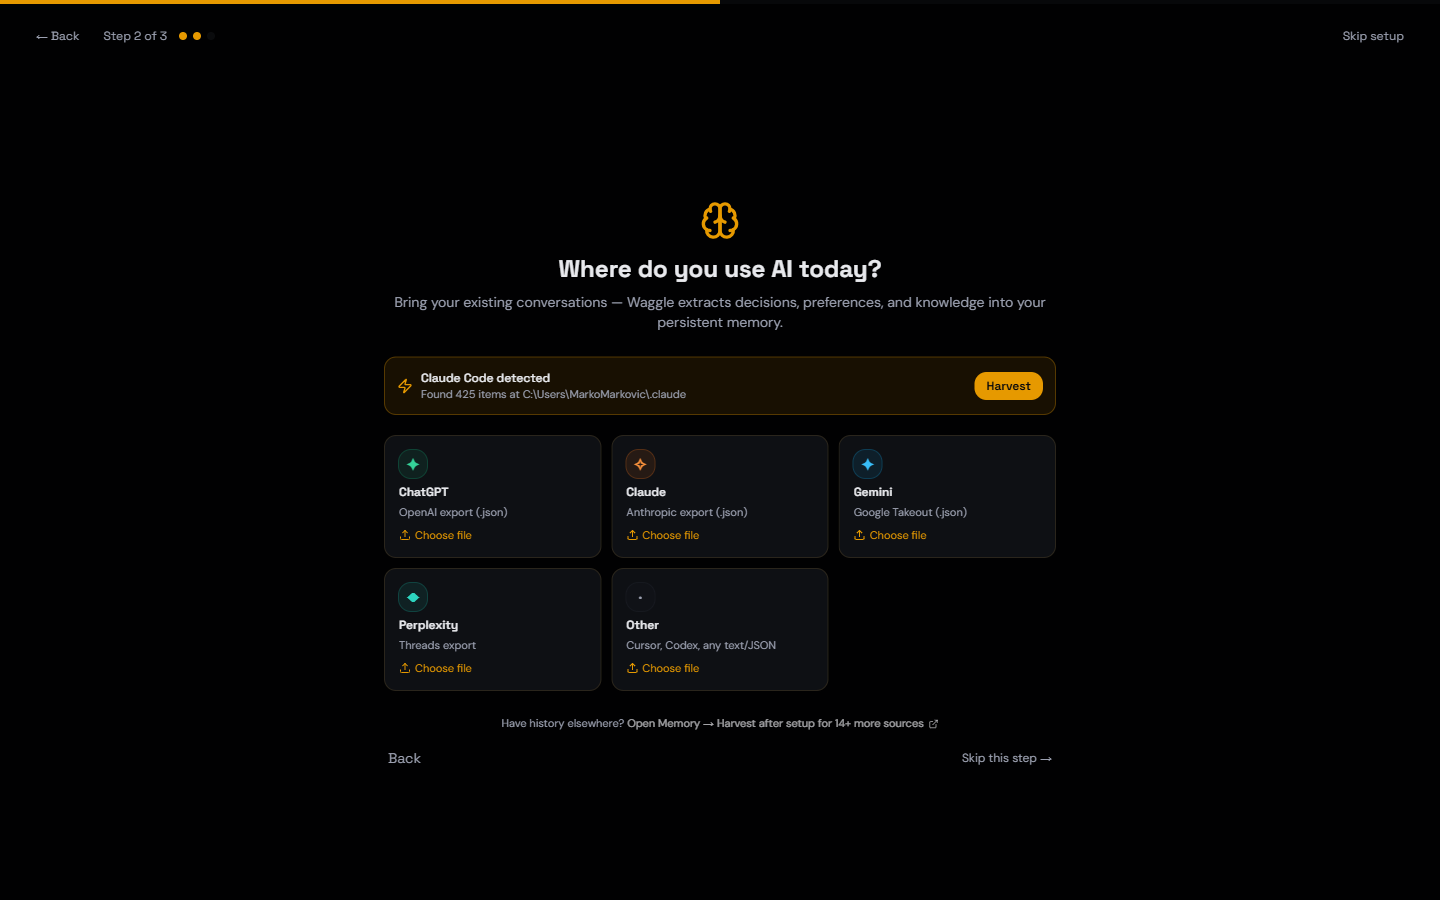
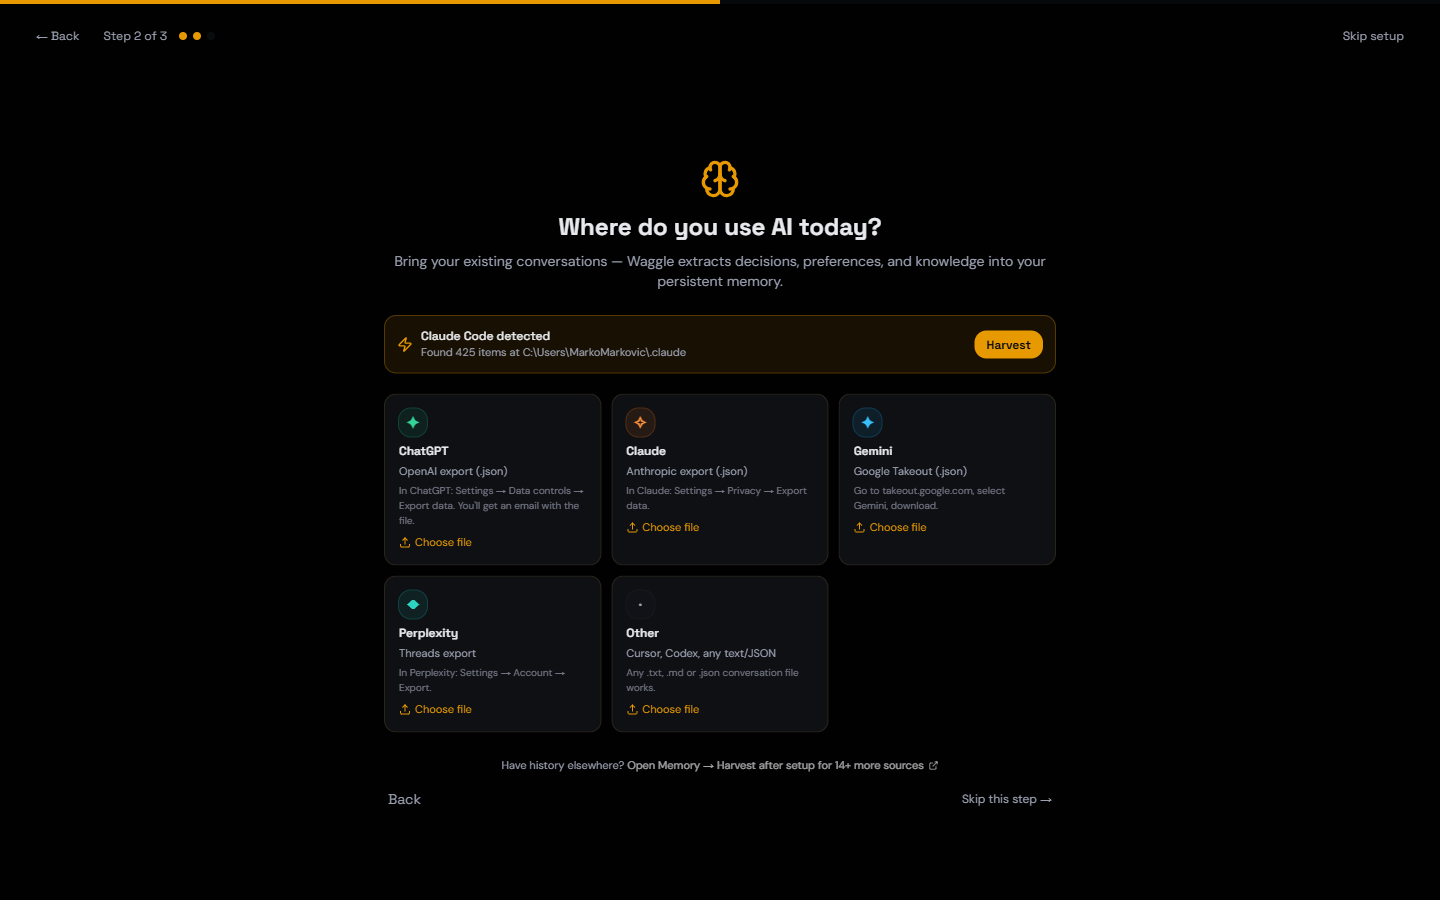
fix(web): strip markdown tokens from briefing highlights + round-2 evidence recapture
- truncateHighlight strips **bold**/#heading/`code` tokens (highlights render
  as text nodes — raw markdown read as a glitch in the hero memory moment)
- notes/judge-round1-patterns.md: the self-contradiction > missing-features lesson
- judging/screenshots/ recaptured against the fixed build: modal home-only,
  deduped highlights, plain-words brag, markdown-rendered chat, Editorial Critic
  in Agent Center, Automation Overview panels, Evolution primer, onboarding
  greeting preview + export how-tos

diff --git a/apps/web/src/components/os/overlays/LoginBriefing.tsx b/apps/web/src/components/os/overlays/LoginBriefing.tsx
@@ -57,7 +57,12 @@ interface MemoryHighlight {
 const timeAgo = bragTimeAgo;
 
 function truncateHighlight(content: string): string {
-  const firstLine = content.split('\n')[0].trim();
+  // Plain text only — highlights render as text nodes, so markdown
+  // tokens (**bold**, # headings, `code`) would show literally.
+  const firstLine = content.split('\n')[0].trim()
+    .replace(/^#{1,3}\s+/, '')
+    .replace(/\*\*(.+?)\*\*/g, '$1')
+    .replace(/`(.+?)`/g, '$1');
   return firstLine.length > 120 ? firstLine.slice(0, 117) + '...' : firstLine;
 }
 

diff --git a/notes/judge-round1-patterns.md b/notes/judge-round1-patterns.md
@@ -1,0 +1,17 @@
+# Judge round 1: self-contradiction kills trust faster than any missing feature
+
+All five personas (novice → senior skeptic) scored "it knows me" at 3-4 NOT because memory
+was weak, but because the surfaces contradicted themselves: "away 10 days" next to "active
+yesterday", the same memory listed twice with two different ages, "No agents yet" while an
+agent demonstrably worked. A memory product visibly misremembering itself reads as lying.
+Three patterns to enforce:
+1. **One source of truth per fact, end to end.** Two components computing "last active"
+   from different stores WILL diverge; machine activity (cron writes) must never count as
+   user activity.
+2. **Empty showcase surfaces actively disprove the pitch.** An Evolution tab with 0 runs
+   and an Agent Center with 0 agents scored "visible agent growth" 2/5 across the board —
+   worse than not having the screens. Either seed them with real product usage or make
+   the empty state tell the story.
+3. **Machine vocabulary is a tax on every persona below developer.** tool_result:,
+   entities/relations, YOLO, raw cron names, unrendered markdown — each one individually
+   "minor", collectively the #1 friction driver (2/5 average).
